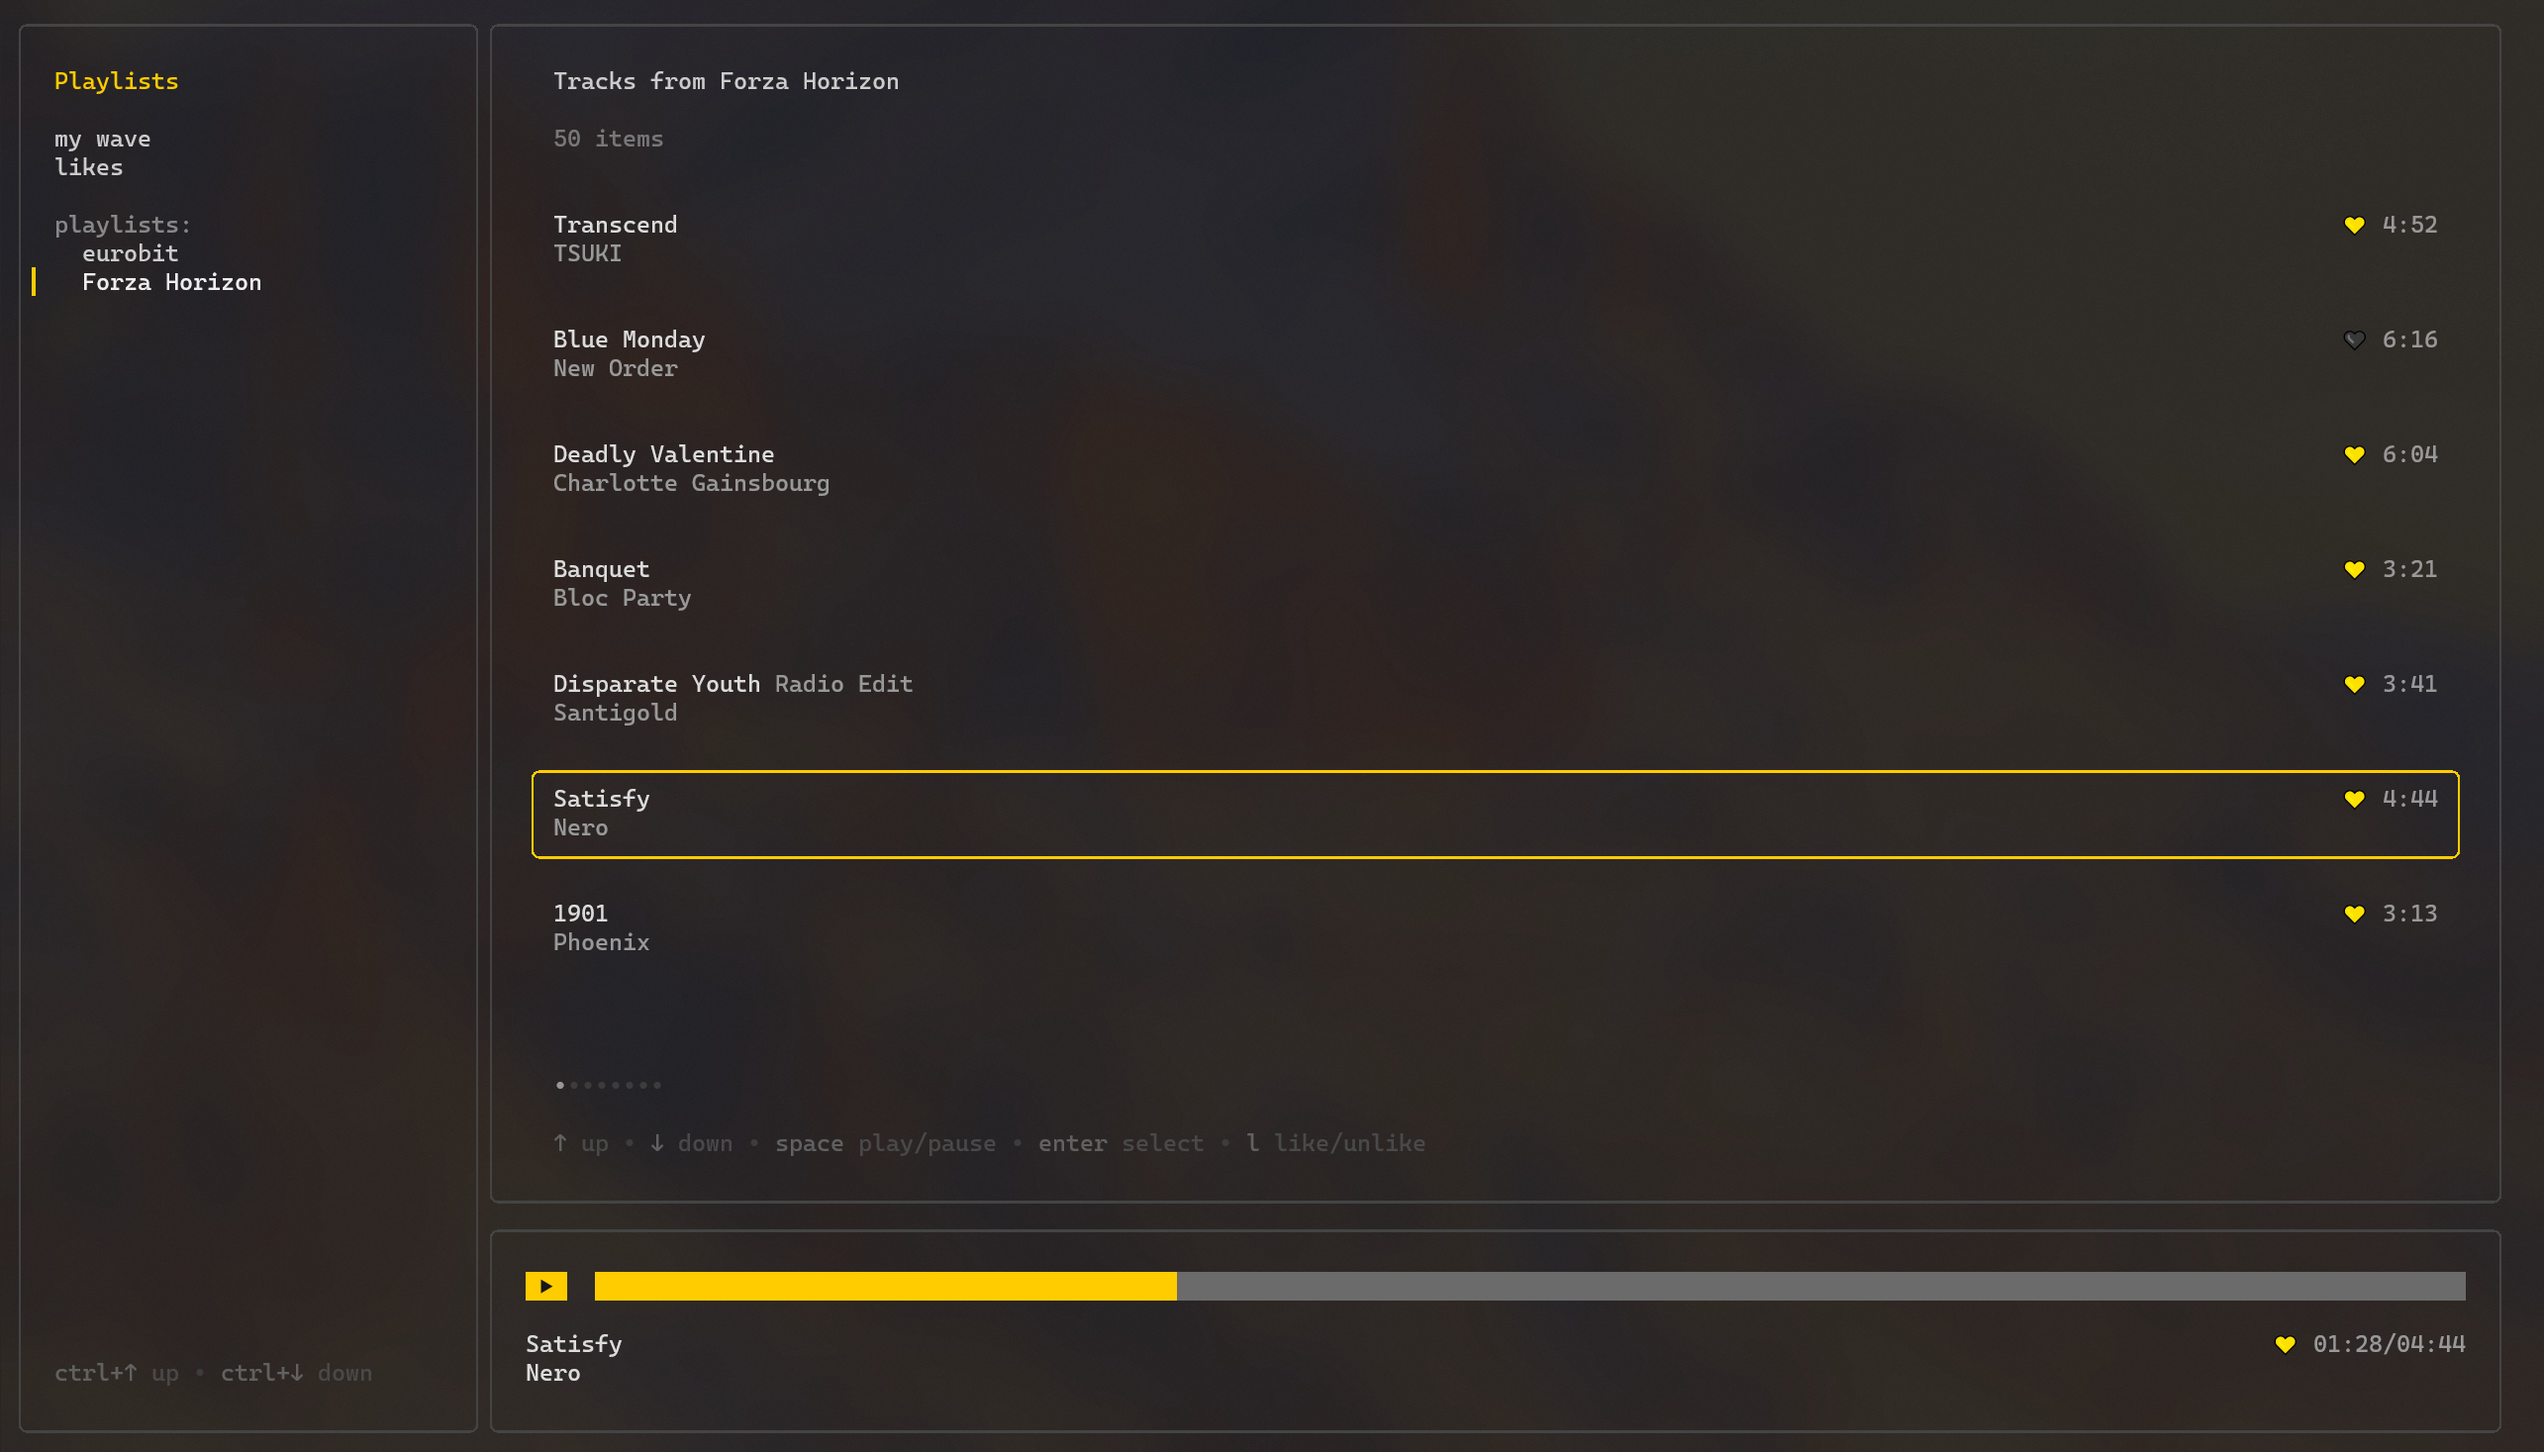
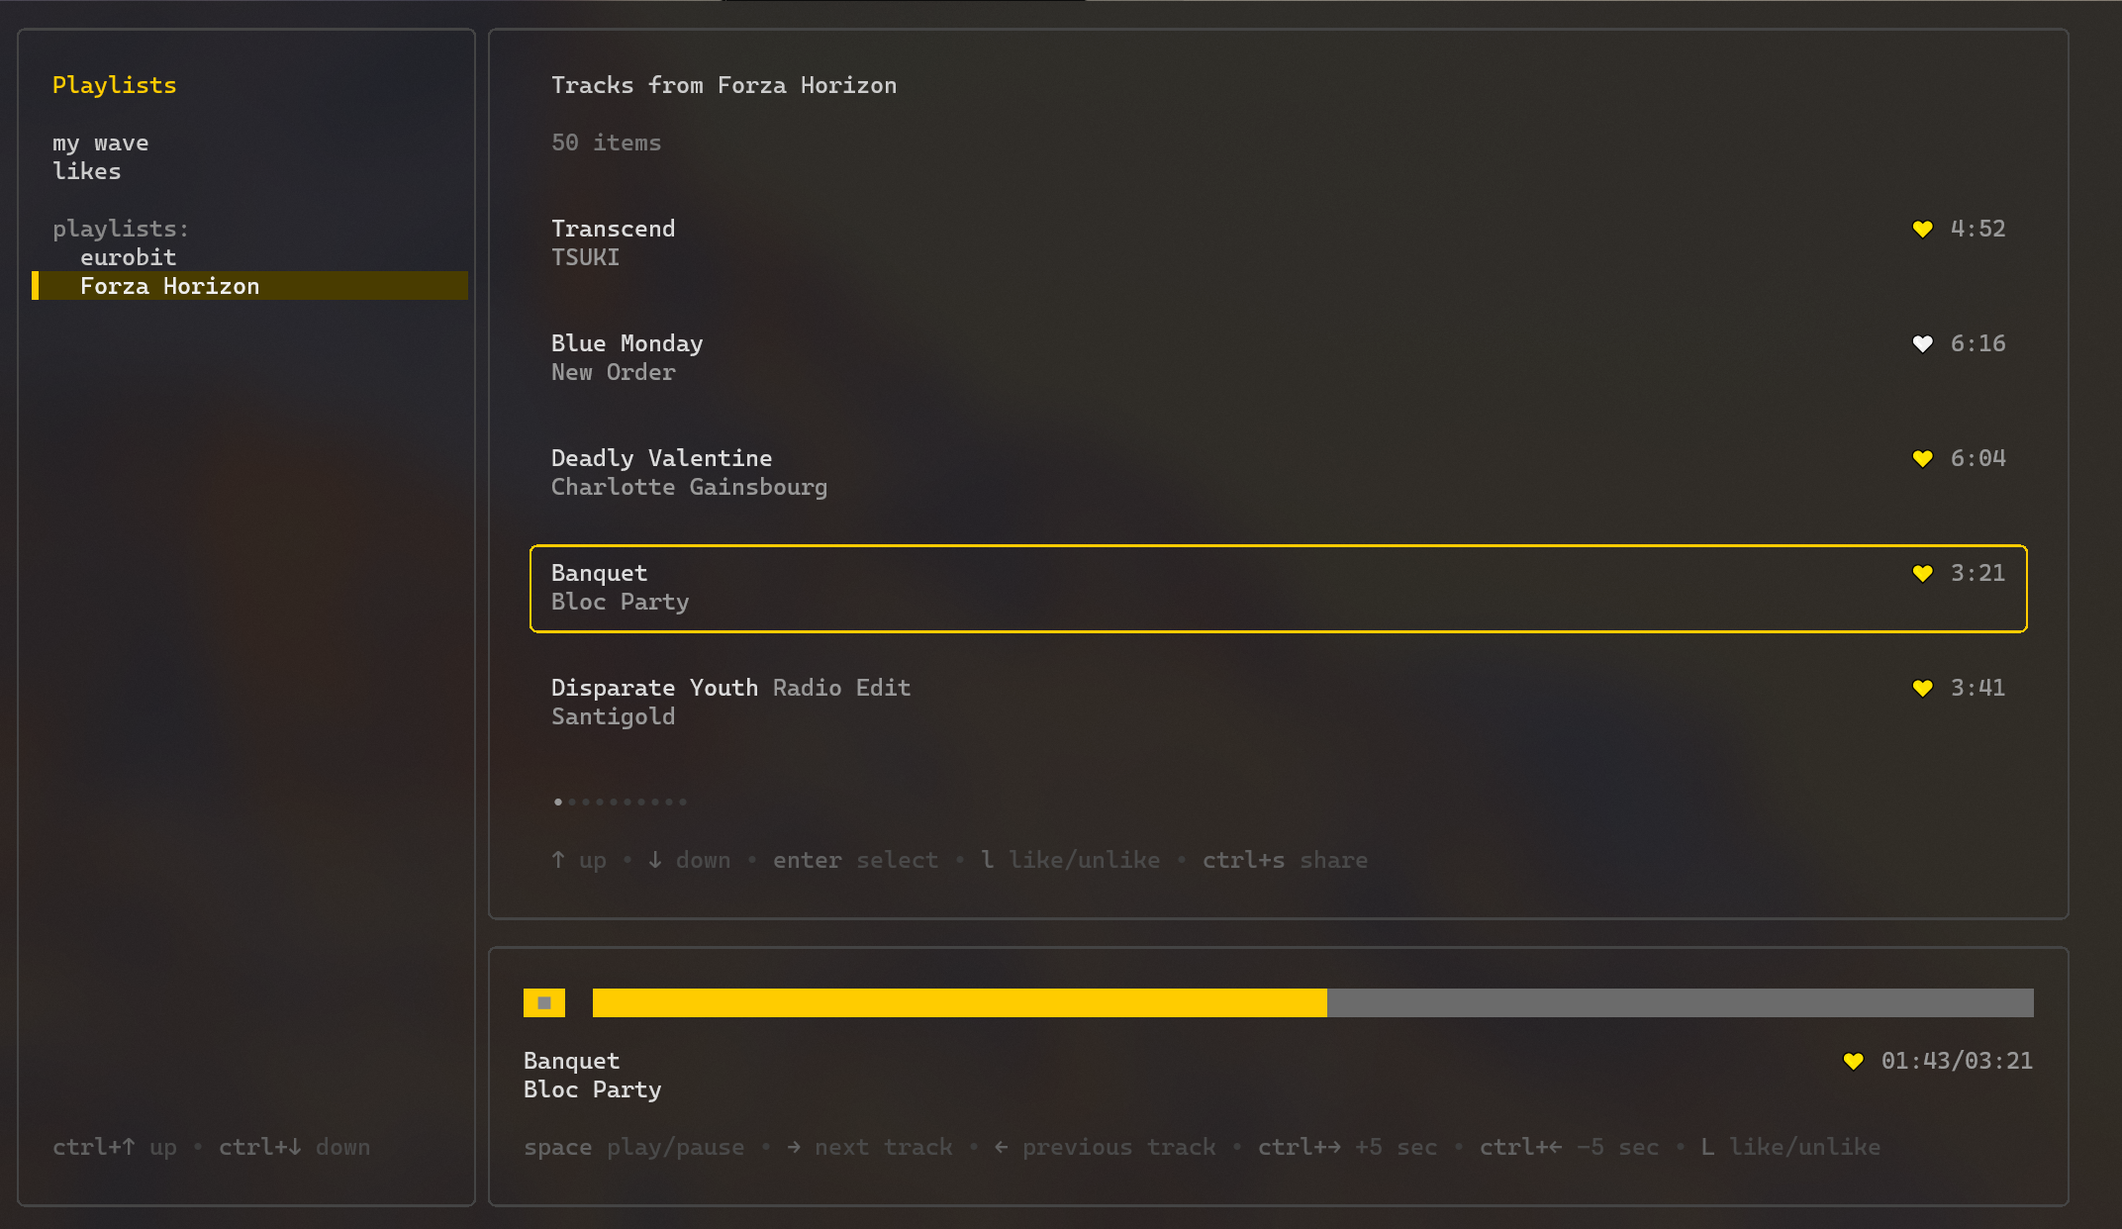
Previous track button. Like/unlike current track.

diff --git a/ui/ui.go b/ui/ui.go
@@ -223,6 +223,8 @@ func (m model) Update(message tea.Msg) (tea.Model, tea.Cmd) {
 				} else {
 					m.player.Play()
 				}
+			} else if keypress == "left" {
+				m.prevTrack()
 			} else if keypress == "right" {
 				if len(m.playQueue) > 0 {
 					currTrack := m.playQueue[m.currentTrackIdx]
@@ -233,18 +235,29 @@ func (m model) Update(message tea.Msg) (tea.Model, tea.Cmd) {
 							m.currentStationId,
 							m.currentStationBatch,
 							currTrack.Id,
-							int(time.Since(m.trackWrapper.trackStartTime).Seconds()),
+							int(m.trackWrapper.trackReader.Progress()*float64(currTrack.DurationMs))*1000,
 						)
 					}
 				}
 
 				m.nextTrack()
-			} else if keypress == "l" {
-				if len(m.playlistTracks) == 0 {
-					break
+			} else if keypress == "l" || keypress == "L" {
+				var track api.Track
+				if keypress == "l" {
+					if len(m.playlistTracks) == 0 {
+						break
+					}
+
+					index := m.trackList.Index()
+					track = m.playlistTracks[index]
+				} else {
+					if len(m.playQueue) == 0 {
+						break
+					}
+
+					track = m.playQueue[m.currentTrackIdx]
 				}
-				index := m.trackList.Index()
-				track := m.playlistTracks[index]
+
 				if m.likedTracksMap[track.Id] {
 					if m.client.UnlikeTrack(track.Id) != nil {
 						break
@@ -267,10 +280,16 @@ func (m model) Update(message tea.Msg) (tea.Model, tea.Cmd) {
 					m.likedTracksMap[track.Id] = true
 					m.likedTracksSlice = append(m.likedTracksSlice, track.Id)
 				}
-				item := m.trackList.SelectedItem().(trackListItem)
-				item.liked = m.likedTracksMap[track.Id]
-				cmd = m.trackList.SetItem(index, item)
-				cmds = append(cmds, cmd)
+
+				if keypress == "l" {
+					index := m.trackList.Index()
+
+					item := m.trackList.SelectedItem().(trackListItem)
+					item.liked = m.likedTracksMap[track.Id]
+
+					cmd = m.trackList.SetItem(index, item)
+					cmds = append(cmds, cmd)
+				}
 			} else if keypress == "ctrl+s" {
 				if len(m.playlistTracks) == 0 {
 					break
@@ -284,6 +303,8 @@ func (m model) Update(message tea.Msg) (tea.Model, tea.Cmd) {
 	// player control update
 	case playerControl:
 		switch msg {
+		case _PLAYER_PREV:
+			m.prevTrack()
 		case _PLAYER_NEXT:
 			if len(m.playQueue) > 0 {
 				currTrack := m.playQueue[m.currentTrackIdx]
@@ -475,6 +496,26 @@ func (m *model) playCurrentQueue(trackIndex int) {
 
 	m.currentTrackIdx = trackIndex
 	m.playTrack(&m.playQueue[m.currentTrackIdx])
+}
+
+func (m *model) prevTrack() {
+	if m.player != nil {
+		m.player.Close()
+		m.player = nil
+	}
+
+	if m.currentTrackIdx == 0 {
+		go programm.Send(_PLAYER_STOP)
+		return
+	}
+
+	m.currentTrackIdx--
+	m.playTrack(&m.playQueue[m.currentTrackIdx])
+
+	selectedPlaylis := m.playlistList.SelectedItem().(playlistListItem)
+	if m.currentPlaylist.kind == selectedPlaylis.kind {
+		go programm.Send(selectedPlaylis)
+	}
 }
 
 func (m *model) nextTrack() {

diff --git a/ui/styles.go b/ui/styles.go
@@ -36,11 +36,11 @@ var (
 var (
 	buttonStyle = lipgloss.NewStyle().
 			Foreground(normalTextColor).
-			Background(accentColor).
+			Background(inactiveTextColor).
 			Padding(0, 3).
 			MarginTop(1)
 	activeButtonStyle = buttonStyle.Copy().
-				Foreground(normalTextColor).
+				Foreground(inactiveTextColor).
 				Background(accentColor)
 )
 
